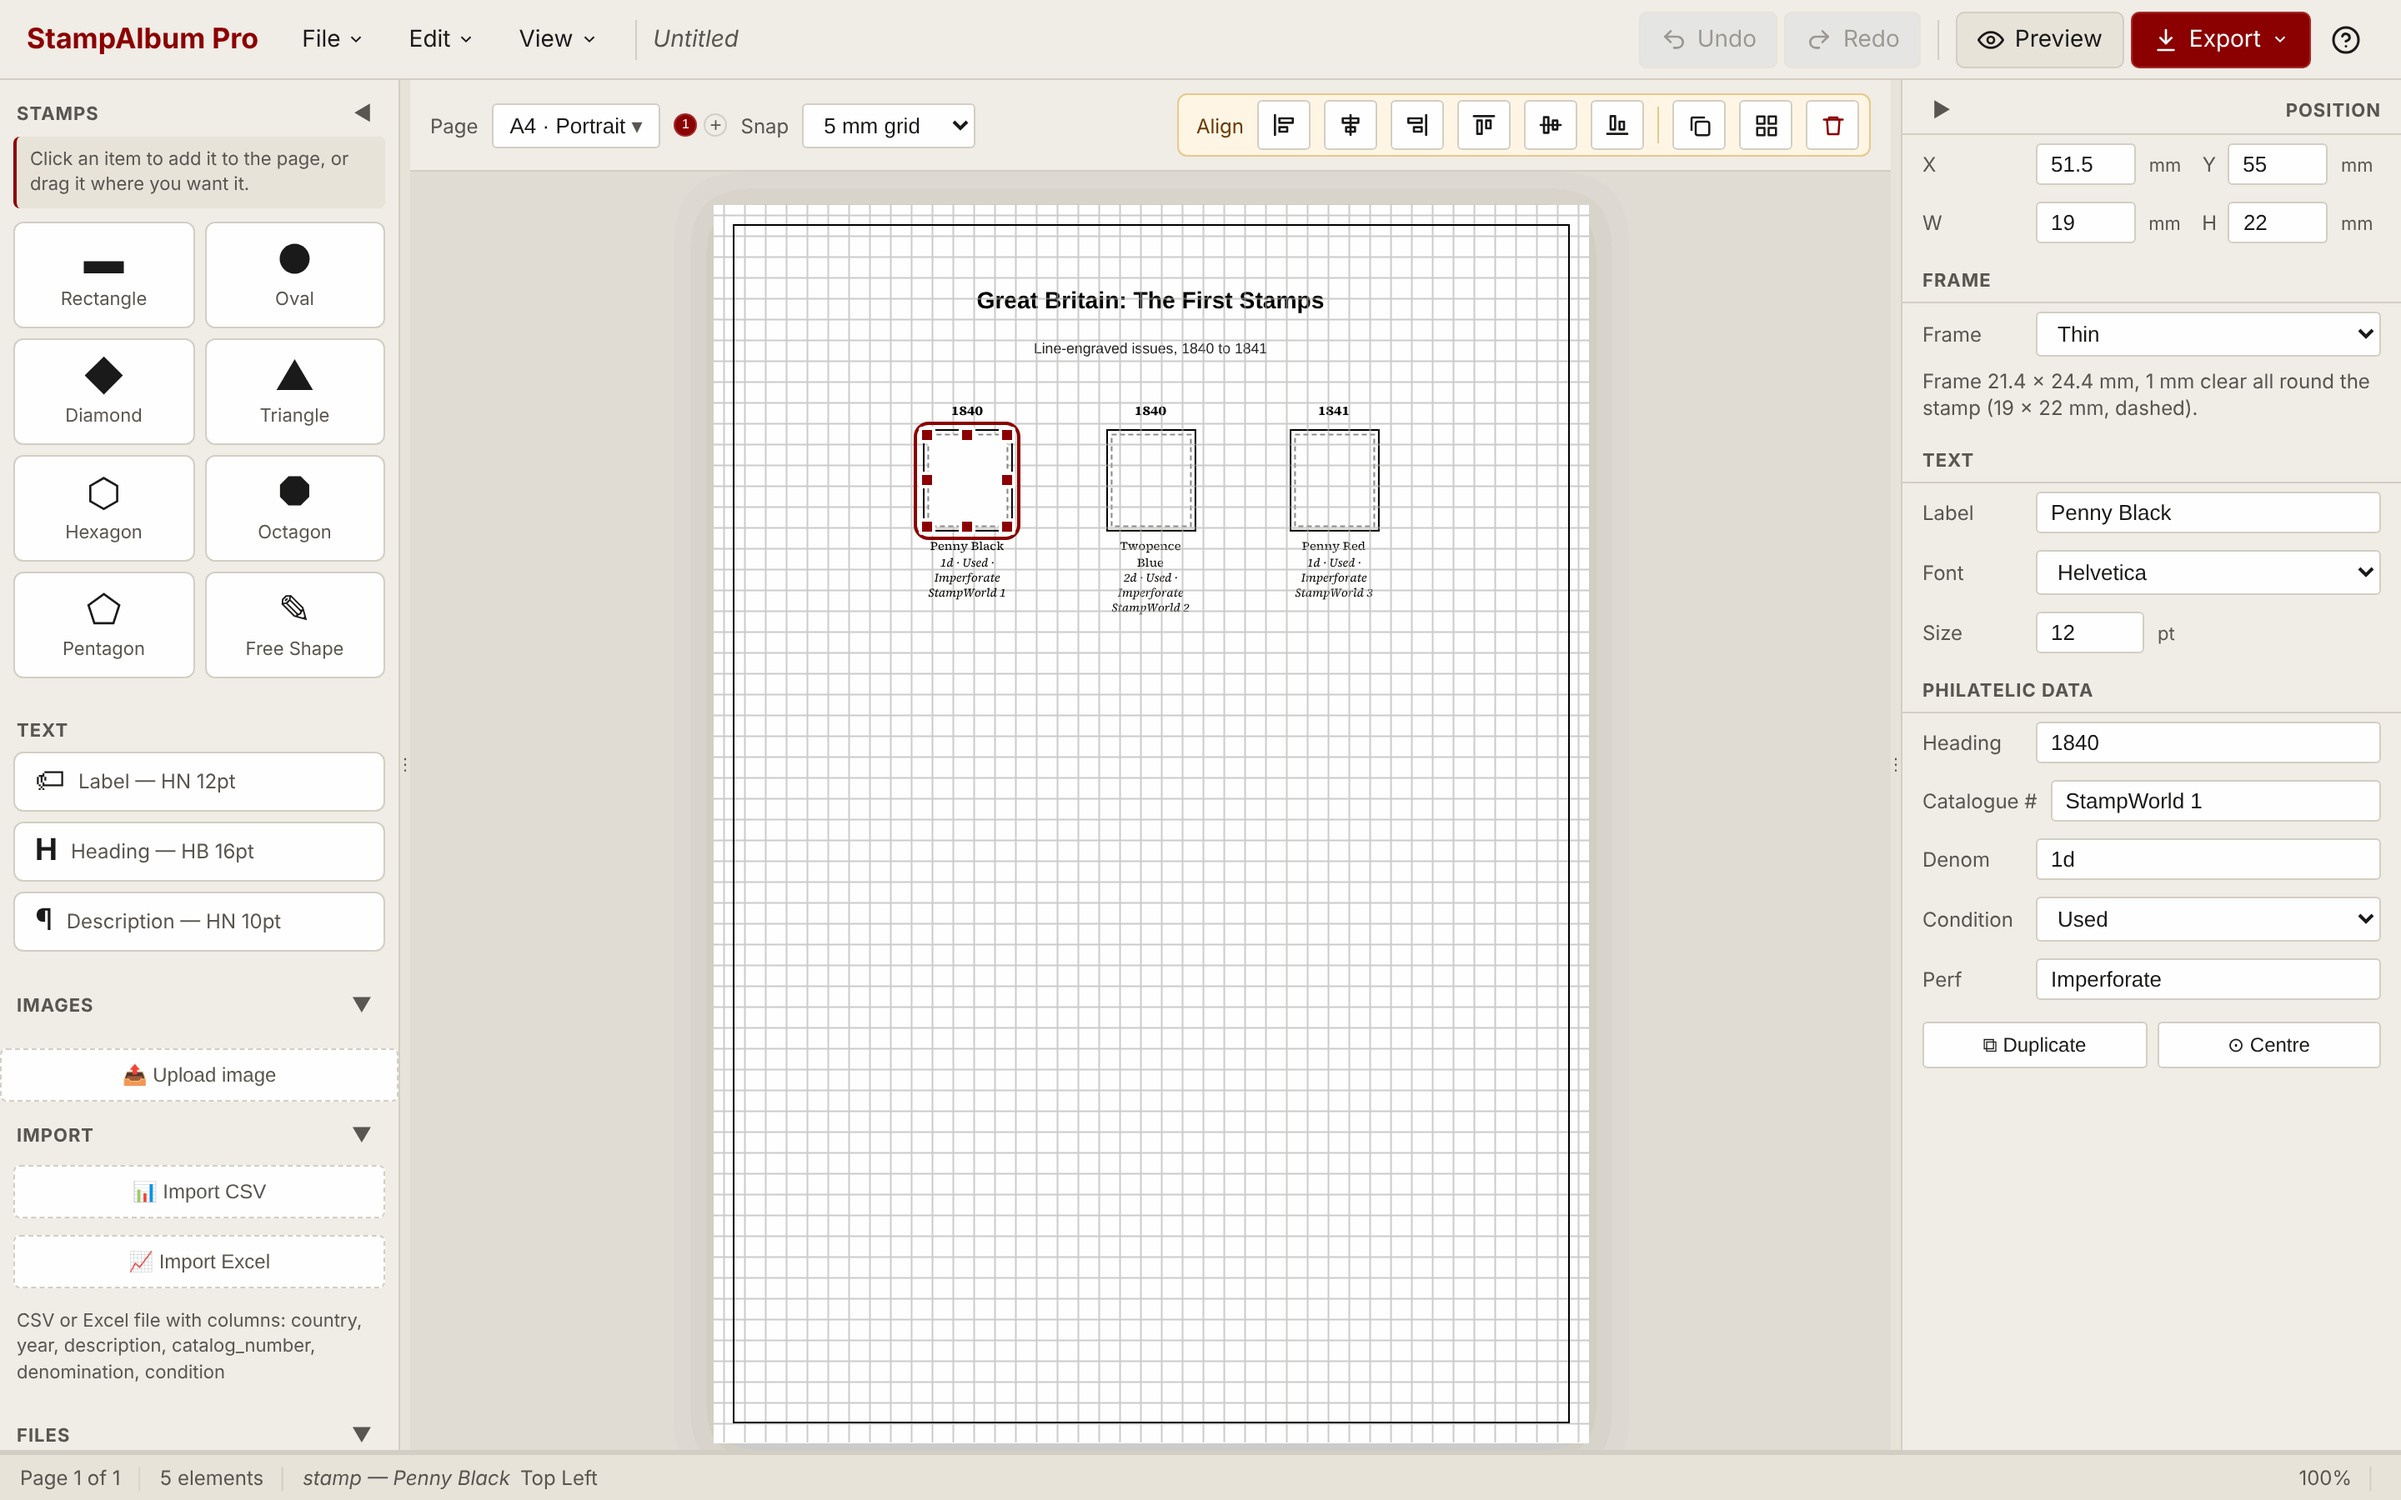
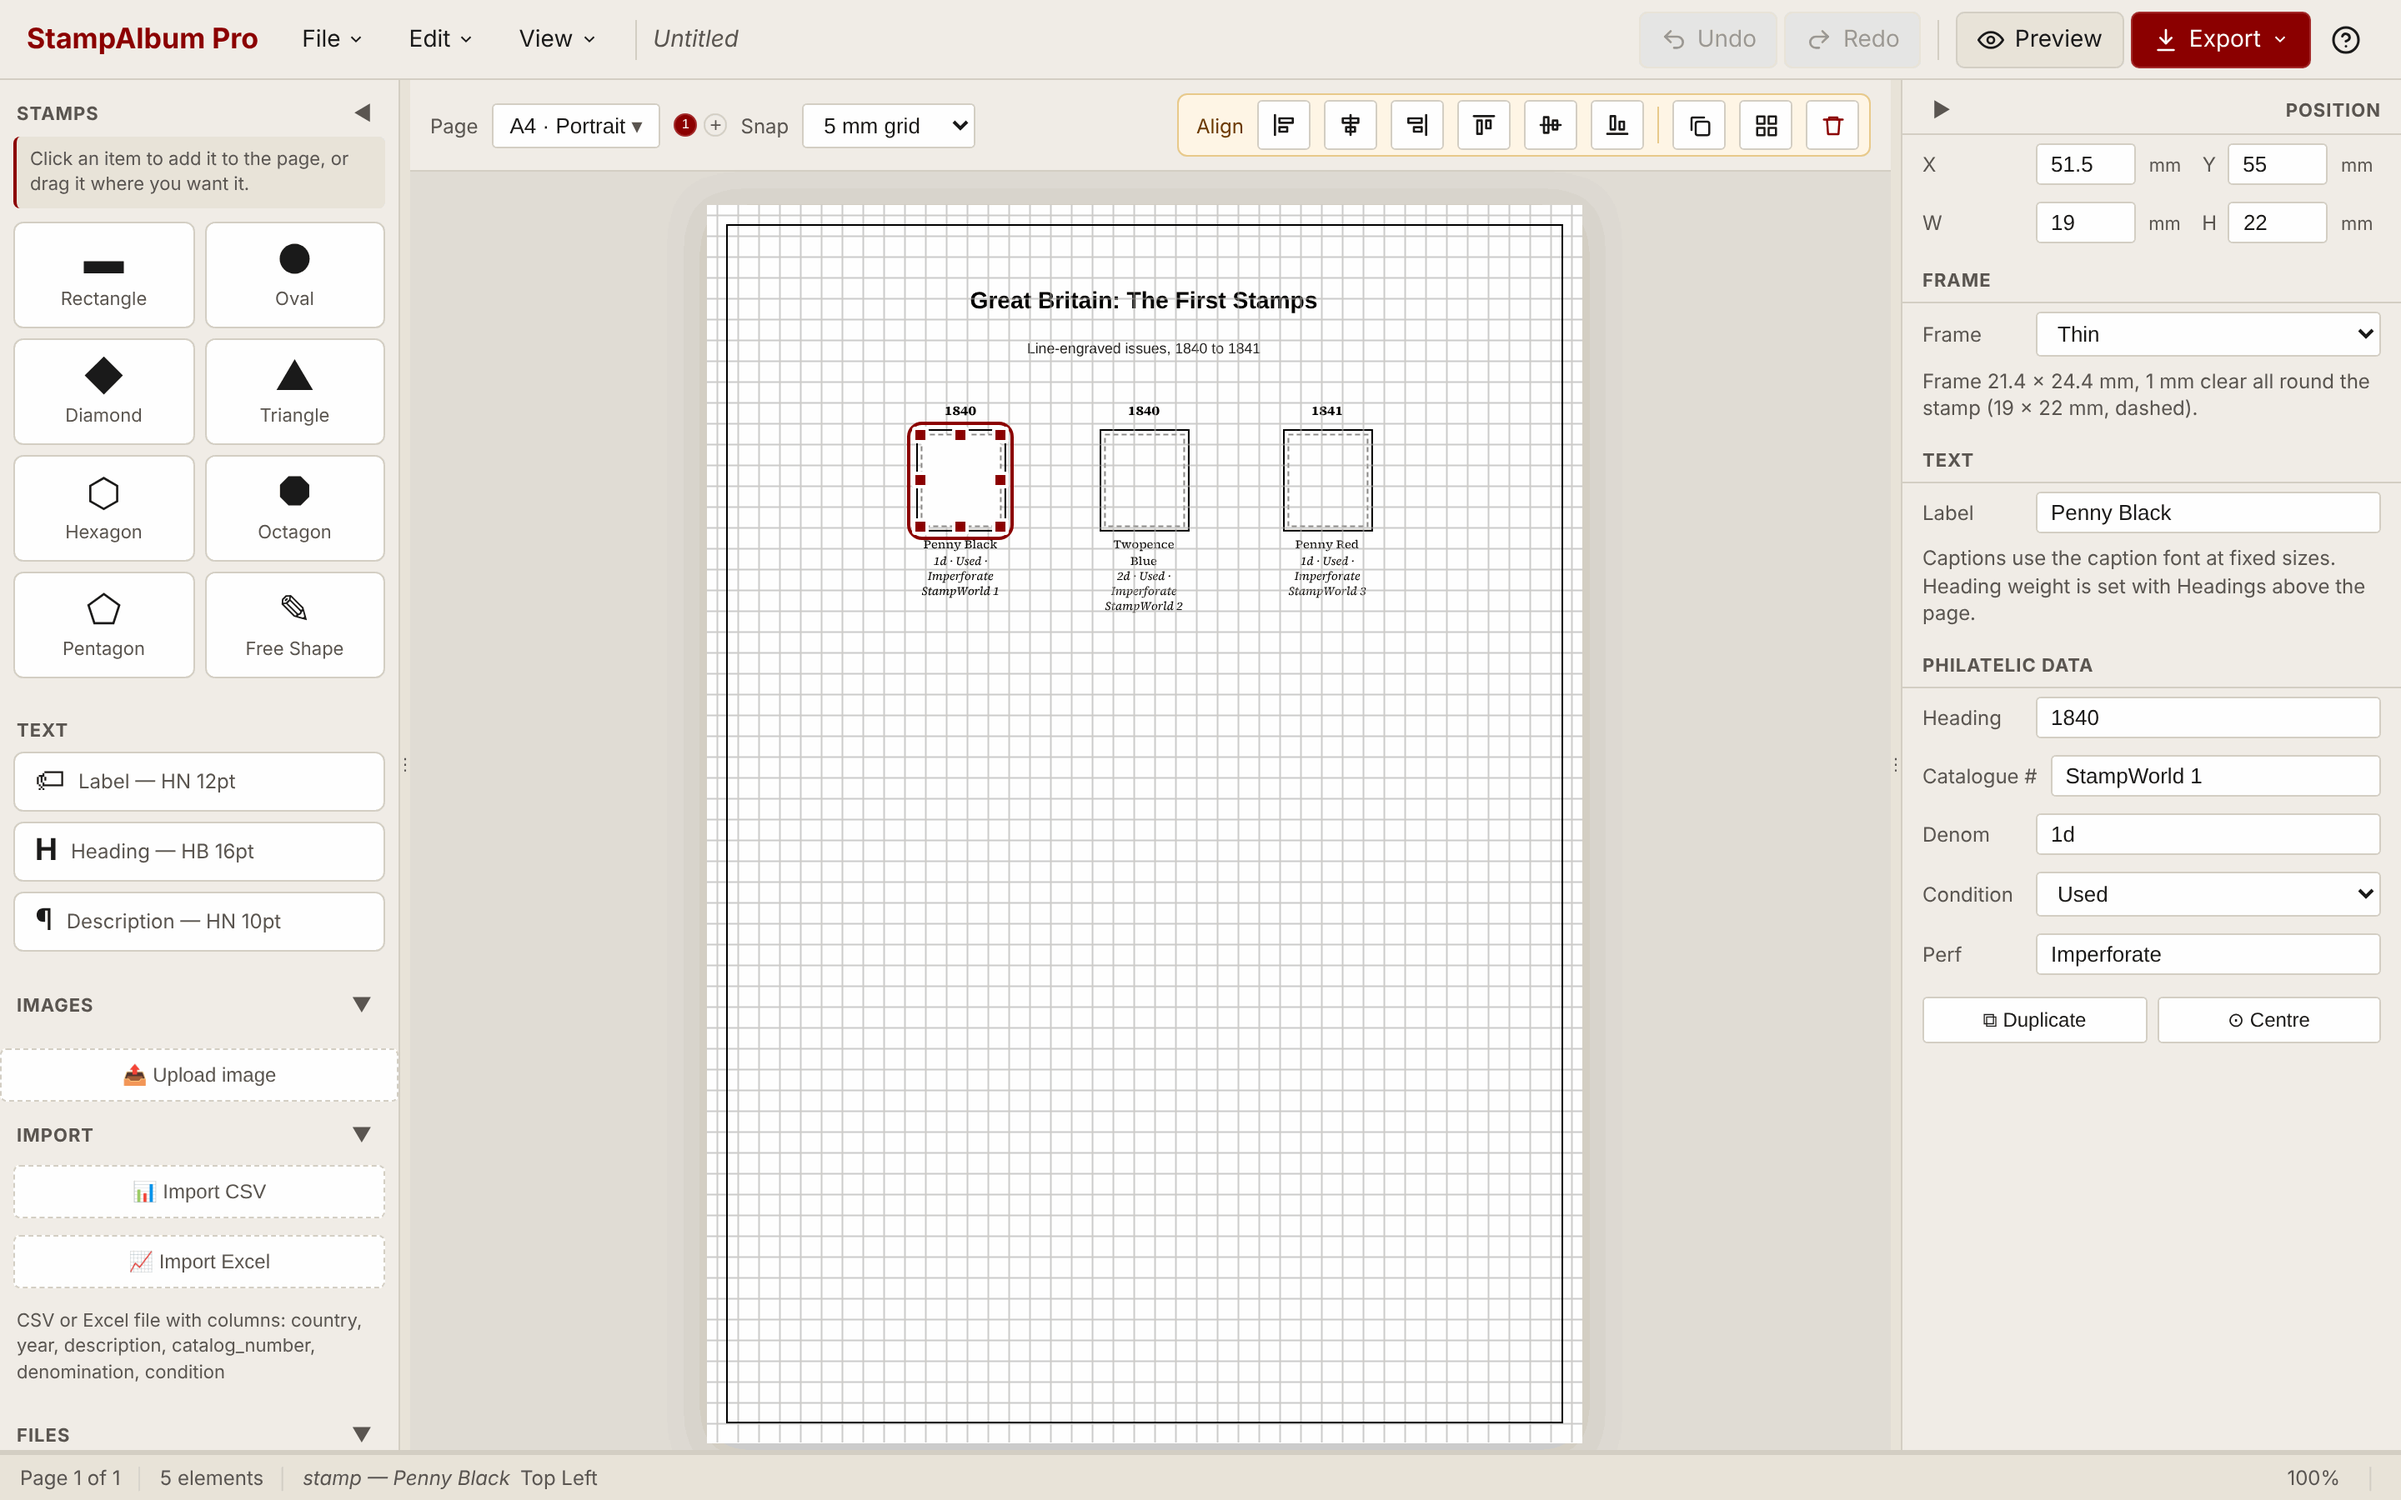
Hide Font and Size in Properties for stamps (item 13)
Stamp captions always use the bundled caption font at fixed sizes, so
the two fields did nothing for a stamp. Properties now hides them for
stamps and shows a short note instead; text, free shapes and images
keep them. Stored font and size values on stamps are left untouched.

Claude-Session: https://claude.ai/code/session_01KeDVPYxa8odFrqRSkjRHzj

Changed region(s): [[0.2812, 0.1244, 0.6875, 0.9644], [0.7812, 0.3422, 1.0, 0.7156]]

diff --git a/src/stamp_album/web/index.html b/src/stamp_album/web/index.html
@@ -140,8 +140,9 @@
             <p class="rp-note" id="pframe-size"></p>
             <h2 class="rp-sec">Text</h2>
             <div class="rp-row"><label for="plbl">Label</label><input type="text" id="plbl" placeholder="Description"></div>
-            <div class="rp-row"><label for="pfnt">Font</label><select id="pfnt"></select></div>
-            <div class="rp-row"><label for="pfs">Size</label><input aria-label="Font size" type="number" id="pfs" value="12" min="6" max="72" step="1"><span class="unit">pt</span></div>
+            <p class="rp-note" id="pcapfont-note" style="display:none">Captions use the caption font at fixed sizes. Heading weight is set with Headings above the page.</p>
+            <div class="rp-row" id="font-row"><label for="pfnt">Font</label><select id="pfnt"></select></div>
+            <div class="rp-row" id="fsize-row"><label for="pfs">Size</label><input aria-label="Font size" type="number" id="pfs" value="12" min="6" max="72" step="1"><span class="unit">pt</span></div>
             <div class="rp-row" id="phead-row"><span class="rp-gap" aria-hidden="true"></span><input type="checkbox" id="phead" aria-describedby="phead-hint"><label for="phead" class="rp-check">Mark as heading</label><span class="unit" id="phead-hint">theme colour</span></div>
             <h2 class="rp-sec" id="phil-sec" style="display:none">Philatelic data</h2>
             <div class="rp-row" id="phil-hdg-row" style="display:none"><label for="phdg">Heading</label><input type="text" id="phdg" placeholder="e.g. M.V. Kista Dan"></div>

diff --git a/src/stamp_album/web/render.js b/src/stamp_album/web/render.js
@@ -351,6 +351,12 @@ function select(id) {
     $("phead").checked = el.role === "heading";
     $("pfnt").value = el.font || "HN";
     $("pfs").value = el.fs || 12;
+    // Stamp captions always use the bundled caption font at fixed sizes, so Font and
+    // Size would do nothing for a stamp. Any values stored on it are left as they are.
+    var capFont = el.t === "stamp";
+    $("font-row").style.display = capFont ? "none" : "flex";
+    $("fsize-row").style.display = capFont ? "none" : "flex";
+    $("pcapfont-note").style.display = capFont ? "block" : "none";
     var isImg = el.t === "image";
     $("img-sec").style.display = isImg ? "block" : "none";
     $("img-row").style.display = isImg ? "flex" : "none";

diff --git a/src/tests/test_stamp_font_rows.py b/src/tests/test_stamp_font_rows.py
@@ -1,0 +1,52 @@
+# ruff: noqa: F811
+"""Stamp captions always use the bundled caption font at fixed sizes, so Properties
+hides Font and Size for stamps. Other items still use them for their own text."""
+
+from test_ui_smoke import base_url, page  # noqa: F401  (fixtures)
+
+
+def _ready(page):
+    page.evaluate("document.getElementById('tutorial-overlay').classList.remove('open')")
+    page.evaluate("""StampAlbum.newAlbum();
+        StampAlbum.E.push({id: 's', t: 'stamp', s: 'rectangle', x: 100, y: 100, w: 47.5, h: 55,
+                           bdr: 'solid', bdrW: 0.5, bdrC: '#000000', fill: '#ffffff', fillA: 100,
+                           lbl: 'Penny Black', font: 'TR', fs: 14});
+        StampAlbum.E.push({id: 't', t: 'text', s: 'rectangle', x: 100, y: 300, w: 200, h: 40,
+                           bdr: 'none', bdrW: 0, bdrC: '#000000', fill: 'transparent', fillA: 0,
+                           lbl: 'Some text', font: 'TR', fs: 14});
+        StampAlbum.E.push({id: 'f', t: 'freehand', s: 'oval', x: 300, y: 100, w: 60, h: 60,
+                           bdr: 'solid', bdrW: 0.5, bdrC: '#000000', fill: '#ffffff', fillA: 100,
+                           lbl: 'Shape', font: 'TR', fs: 14});
+        StampAlbum.render();""")
+
+
+def _shown(page, sel):
+    return page.is_visible(sel)
+
+
+def test_font_and_size_are_hidden_for_stamps(page):
+    _ready(page)
+    page.evaluate("StampAlbum.select('s')")
+    assert not _shown(page, "#pfnt")
+    assert not _shown(page, "#pfs")
+    assert _shown(page, "#plbl"), "the label is still the stamp's description"
+    assert _shown(page, "#pcapfont-note")
+    assert "caption font" in page.inner_text("#pcapfont-note")
+
+
+def test_font_and_size_come_back_for_text_and_shapes(page):
+    _ready(page)
+    for item in ("s", "t", "s", "f"):
+        page.evaluate(f"StampAlbum.select('{item}')")
+        stamp = item == "s"
+        assert _shown(page, "#pfnt") is not stamp, item
+        assert _shown(page, "#pfs") is not stamp, item
+        assert _shown(page, "#pcapfont-note") is stamp, item
+    assert page.input_value("#pfs") == "14", "the shape's own size is shown"
+
+
+def test_stored_stamp_font_is_kept_in_the_file(page):
+    _ready(page)
+    page.evaluate("StampAlbum.select('s')")
+    stamp = page.evaluate("StampAlbum.E.find(e => e.id === 's')")
+    assert (stamp["font"], stamp["fs"]) == ("TR", 14), "hiding the rows changes nothing stored"

diff --git a/CHANGELOG.md b/CHANGELOG.md
@@ -26,6 +26,7 @@ All notable changes to this project are documented here. The format follows [Kee
 - Browser smoke test (`test_ui_smoke.py`; skipped locally without Playwright, required in CI)
 
 ### Changed
+- **Properties hides Font and Size for stamps** (pending item 13). A stamp's captions always use the caption font at fixed sizes, so the two fields did nothing for a stamp. A short note under the stamp's Label says so and points to Headings above the page for the heading weight. Text items, free shapes and images still show Font and Size. Albums are unchanged: any font or size already stored on a stamp stays in the file
 - **Captions are set in Source Serif 4 Caption** (Adobe, SIL Open Font License), bundled with the app in `web/fonts` with its licence: Regular for the description, Italic for the details and catalogue number, Bold or Semibold for the heading. The Caption cut is drawn for small sizes such as the 8 pt captions. It is used whatever the stamp's own font, so the description no longer follows Helvetica, Times or Courier. The PDF embeds it; the SVG export and the HTML preview and export embed only the letters the album uses (a few KB per font); the PNG draws from the bundled files, so a machine's fonts make no difference
 - **Captions now wrap the same way in every view** (pending item 6). The editor measured them with the browser's fonts and the exports with PDF metrics, so a line near the frame's width could wrap in one view and not another. Every view now measures with the bundled font's own advance widths, without kerning or ligatures, and draws the text that way too: the exports from `engines/caption_fonts.py`, the editor from `web/caption_metrics.js`, generated from the same files by `tools/caption_metrics.py` (a test fails if it is out of date). The Caption cut is set a little wider than Helvetica, so some captions take one more line than before (in the sample album, "Twopence Blue" on a 19 mm stamp)
 - **Starter templates** replaced: the Template Gallery now has four exhibition-style pages, Single stamp, Set row, Title page and Exhibition page, in place of 33 templates that used the old row layout. Those opened as an empty page in the editor and exported with stamps and captions overlapping. The new ones are placed items at their own sizes, with headings, captions and details, inside the 15 mm margins and with nothing running into anything else. A test checks every template with the export engines' frame and caption geometry, exports each to PDF, PNG and SVG, and opens each in the editor to check for "!" badges
